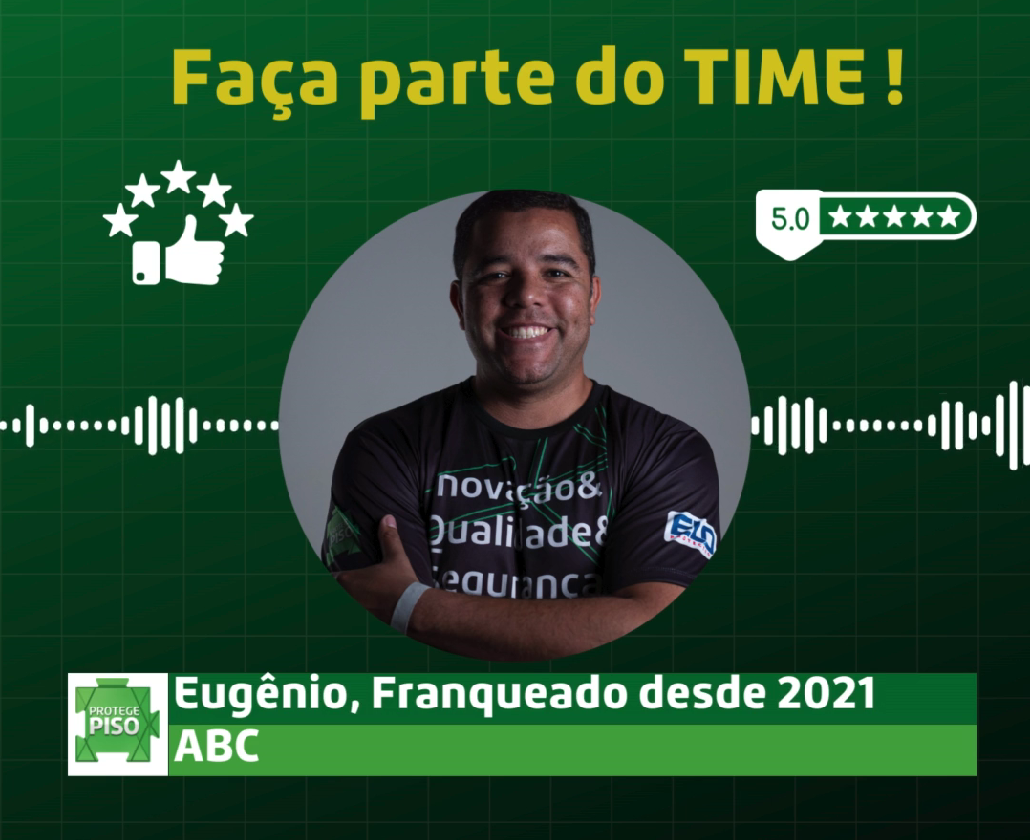
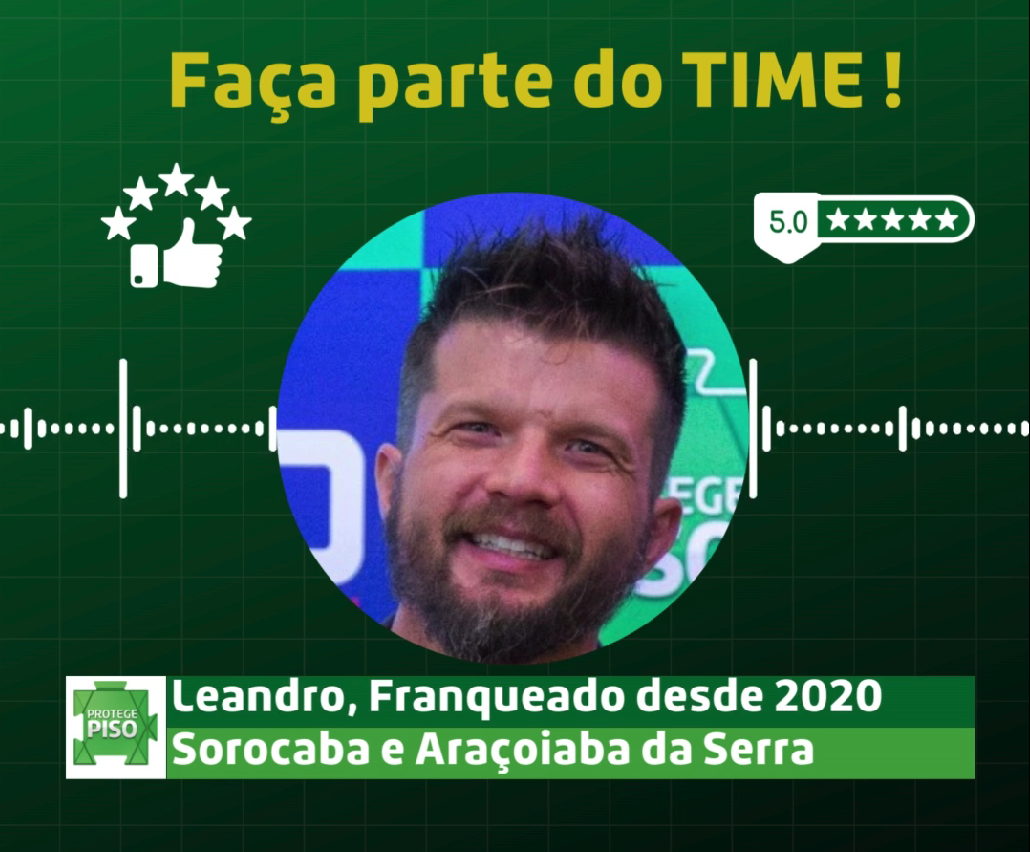
first commit franquia aracoiaba da serra

diff --git a/index.html b/index.html
@@ -5,7 +5,7 @@
     <meta charset="UTF-8">
     <meta name="viewport" content="width=device-width, initial-scale=1.0">
     <meta name="Landing Page" content="Website da franquia da protege piso de Palmas">
-    <title>Protege Piso ABC</title>
+    <title>Protege Piso Araçoiaba da Serra</title>
     <link rel="stylesheet" href="styles.css">
     <link rel="stylesheet" href="https://cdn.jsdelivr.net/npm/glider-js@1/glider.min.css">
     <script src="https://cdn.jsdelivr.net/npm/glider-js@1/glider.min.js"></script>
@@ -32,7 +32,7 @@
                 <div class="navbar-container">
                     <a href="#" class="logo">
                         <img src="./images/logoprotege.png" alt="Logo da protege piso">
-                        <h3>ABC</h3>
+                        <h3>Araçoiaba da Serra</h3>
                     </a>
 
                     <div class="menu-toggle" id="mobile-menu" onclick="toggleMenu()">
@@ -46,7 +46,7 @@
                         <li class="nav-item"><a href="#Informacoes" class="nav-link">Informações</a></li>
                         <li class="nav-item"><a href="#" class="nav-link" id="openChatBtn">Seja um franqueado</a></li>
                         <li class="nav-item">
-                            <a href="https://wa.me/5511961031010" target="_blank">
+                            <a href="https://api.whatsapp.com/send?phone=5515998004192&text=" target="_blank">
                                 <img src="images/icone_whatsapp.png" alt="icone logo whatsapp" class="whatsapp-icon-nav"
                                     style="margin-right: 10px;">
                             </a>
@@ -185,7 +185,7 @@
                 <p id="followers"></p>
                 <p id="posts"></p>
             </div>
-            <a href="https://www.instagram.com/protegepisoabc/" target="_blank"><button type="button"
+            <a href="https://www.instagram.com/protegepisosorocaba/" target="_blank"><button type="button"
                     class="botao-seguir">Seguir</button></a>
         </div>
         <div class="glider-contain-custom">
@@ -197,7 +197,7 @@
     </section>
 
     <section class="container-quem-somos" id="QuemSomos">
-        <h3>EM ABC DESDE 2021</h3>
+        <h3>EM ABC DESDE 2020</h3>
         <img src="images/na_cidade_desde.PNG" class="imagem-quem-somos" alt="imagem do franqueado">
     </section>
 
@@ -208,20 +208,20 @@
 
         <div class="rodape-informacoes">
             <h5>Franquia</h5>
-            <p>eugenio@protegepiso.com.br</p>
+            <p>leandro@protegepiso.com.br</p>
             <div class="item-rodape">
-                <a href="https://wa.me/5511961031010" target="_blank">
+                <a href="https://api.whatsapp.com/send?phone=5515998004192&text=" target="_blank">
                     <img src="images/icone_whatsapp.png" alt="icone logo whatsapp"
                         class="rodape-informacoes-icone-whatsapp">
                 </a>
-                <p>(11) 96103-1010</p>
+                <p>(15) 99800-4192</p>
             </div>
             <div class="item-rodape">
-                <a href="https://www.instagram.com/protegepisoabc/" target="_blank">
+                <a href="https://www.instagram.com/protegepisosorocaba/" target="_blank">
                     <img src="images/icone_instagram.png" alt="icone logo instagram"
                         class="rodape-informacoes-icone-instagram">
                 </a>
-                <p>@protegepisoabc
+                <p>@protegepisosorocaba
                 </p>
             </div>
         </div>
